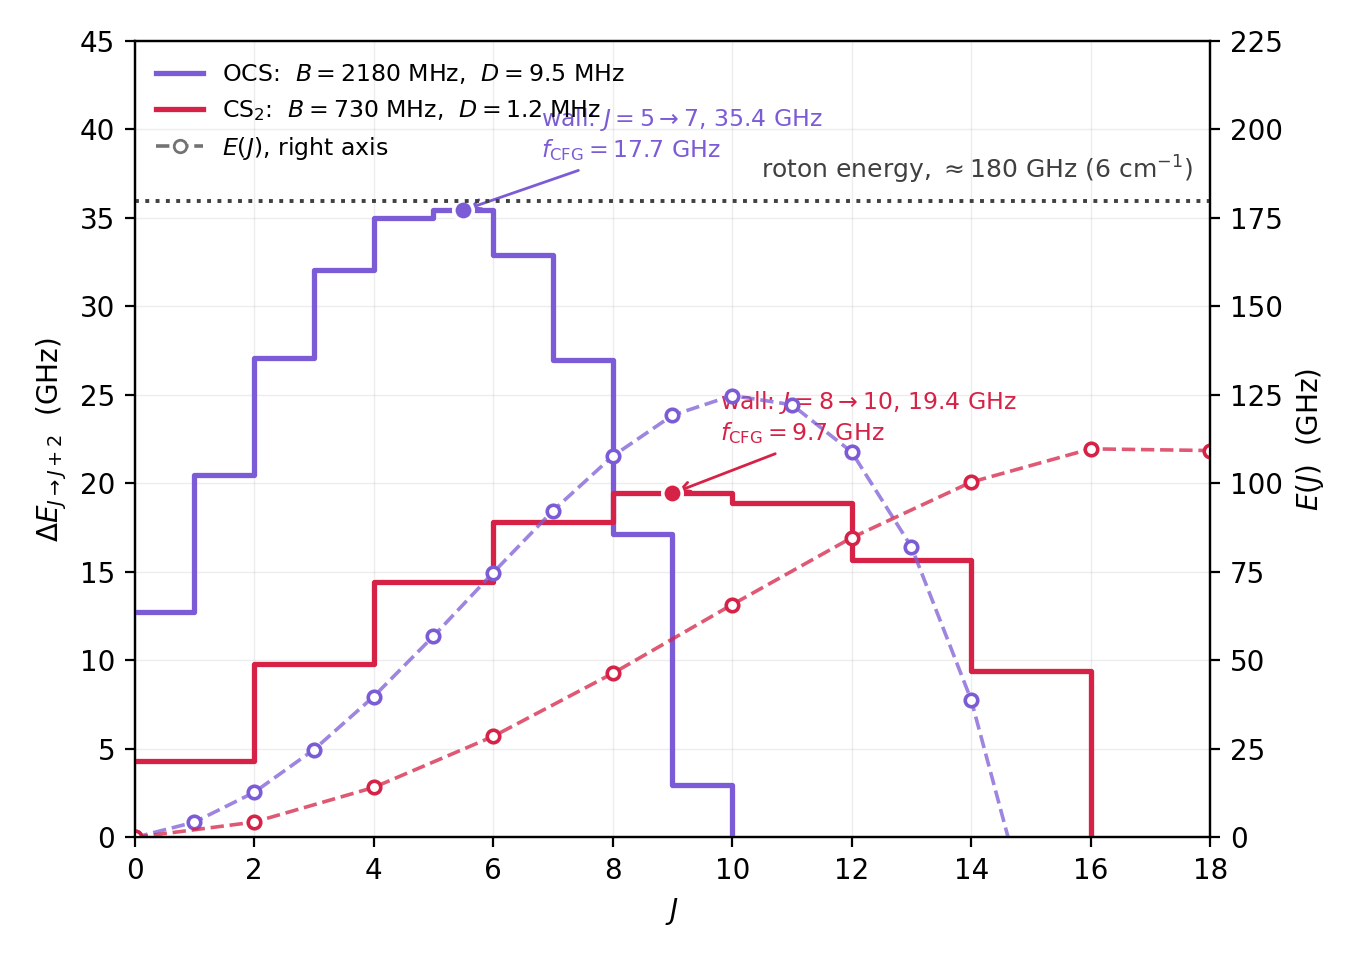
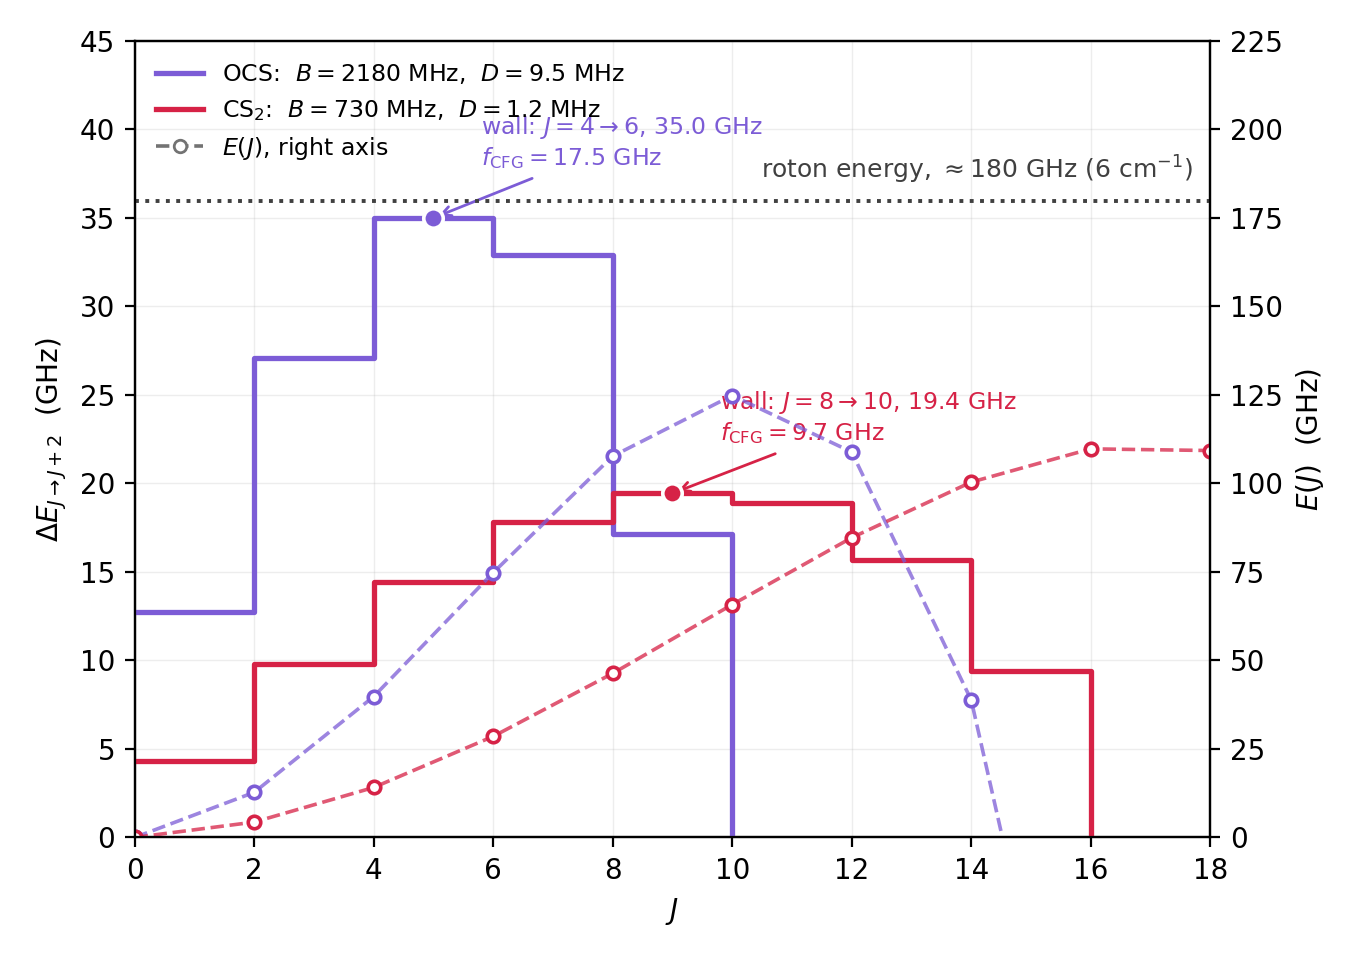
sd

diff --git a/act_thesis/chapters/02_theory.tex b/act_thesis/chapters/02_theory.tex
@@ -188,12 +188,12 @@ where $B$ is the rotational constant and $D$ is the centrifugal-distortion const
 
 A molecule embedded in a superfluid helium nanodroplet is not an isolated rotor. The attractive van der Waals interaction between the dopant and the surrounding helium creates a local density enhancement, a solvation shell, in the first few atomic layers around the molecule. For a sufficiently anisotropic potential energy surface, part of this shell is rigidly bound to the molecular frame and follows the molecular orientation adiabatically during rotation \cite{grebenevRotationalSpectrumSingle2000, choiInfraredSpectroscopyHelium2006a}. The rotating object is therefore the molecule plus a fraction of the helium it drags along, which increases the effective moment of inertia and correspondingly reduces the rotational constant.
 
-Rotational spectroscopy of different molecules in \fHe droplets, showed that the spectrum remains that of a free rotor, sharp resolvable lines with the same symmetry, but with rescaled $B$ constant. Typical reductions are a factor of $2 - 4$ relative to the gas phase value \cite{toenniesSuperfluidHeliumDroplets2004a}. ``Kicking'' the molecules and observing dynamics of higher rotational states confirmed the spectroscopy values including the rescaling of the centrifugal-distortion constant $D$. Instead of $D$ describing the bond stretching of a free rotating molecule, in this case it is connected to the attached helium shell spreading out and increasing the moment of inertia \cite{chatterleyRotationalCoherenceSpectroscopy2020}. The already in section \ref{sec:state-of-the-art} mentioned experiments by the Stapelfeldt group showed, that for example for \OCS $D_\mathrm{He} \approx 7.3 \times 10^3 \, D_\mathrm{gas}$. Plotting the transition frequency $\Delta E_{J \rightarrow J+2}$ as a function of $J$ reveals a striking consequence of the enhanced distortion constant: the frequency does not increase monotonically but reaches a maximum and then decreases (see \figref{fig:centrifugal_wall}), so that beyond this point a state of higher angular momentum is connected by a transition of lower frequency, even though the rotational energy itself still increases. In this thesis the turning point is referred to as the centrifugal wall. Further, with the kick experiments it was not possible to resolve what actually happens when approaching the centrifugal wall. Accordingly, the maximum energy for \gls{css} was $E(J=10) \approx 66 \, \mathrm{GHz}$ and for \OCS $E(J=5) \approx 57 \, \mathrm{GHz}$, both way below the roton energy.
+Rotational spectroscopy of different molecules in \fHe droplets, showed that the spectrum remains that of a free rotor, sharp resolvable lines with the same symmetry, but with rescaled $B$ constant. Typical reductions are a factor of $2 - 4$ relative to the gas phase value \cite{toenniesSuperfluidHeliumDroplets2004a}. ``Kicking'' the molecules and observing dynamics of higher rotational states confirmed the spectroscopy values including the rescaling of the centrifugal-distortion constant $D$. Instead of $D$ describing the bond stretching of a free rotating molecule, in this case it is connected to the attached helium shell spreading out and increasing the moment of inertia \cite{chatterleyRotationalCoherenceSpectroscopy2020}. The already in section \ref{sec:state-of-the-art} mentioned experiments by the Stapelfeldt group showed, that for example for \OCS $D_\mathrm{He} \approx 7.3 \times 10^3 \, D_\mathrm{gas}$. Plotting the transition frequency $\Delta E_{J \rightarrow J+2}$ as a function of $J$ reveals a striking consequence of the enhanced distortion constant: the transition frequency does not increase monotonically but reaches a maximum and then decreases (see \figref{fig:centrifugal_wall}), so that beyond this point a state of higher angular momentum is connected by a transition of lower frequency. This eventually results in an unphysical decrease of rotational frequency with higher $J$. In this thesis the turning point is referred to as the centrifugal wall. Further, with the kick experiments it was not possible to resolve what actually happens when approaching the centrifugal wall. Accordingly, the maximum energy for \gls{css} was $E(J=10) \approx 66 \, \mathrm{GHz}$ and for \OCS $E(J=5) \approx 57 \, \mathrm{GHz}$, both way below the roton energy.
 
 \begin{figure}[htbp]
     \centering
     \includegraphics[width=0.8\textwidth]{02_theory/Pasted image 20260720163800.png}
-    \caption{Breakdown of the rigid rotor with centrifugal distortion model in superfluid helium. }
+    \caption{Breakdown of the rigid rotor with centrifugal distortion model in superfluid helium. \OCS and \CSS transition energies displaying the "centrifugal wall", where with the next $J \rightarrow J +2$ step the transition needs less energy. The molecules rotational energy is plotted on the right-hand side, consequently also showing unphysical behavior for higher rotational states. Note that for both molecules only the even ladder is displayed - due to symmetry, \OCS can also develop the uneven ladder with $\Delta J = 2$ \cite{ianThesis}. The wall for \CSS appears to be $J = 8 \rightarrow 10$ ($19.4\, \mathrm{GHz}$), for \OCS $J = 5 \rightarrow 7$ ($35.4\, \mathrm{GHz}$)} 
     \label{fig:centrifugal_wall}
 \end{figure}
 

diff --git a/python/centrifugal_wall.py b/python/centrifugal_wall.py
@@ -18,12 +18,14 @@ import matplotlib.pyplot as plt
 
 E_ROTON = 179.9          # GHz  (6 cm^-1)
 JMAX_PLOT = 18
+STEP = 2                 # Raman selection rule: J -> J+2; only the even-J ladder is shown
 
-# even_only: CS2 (S=C=S, centrosymmetric, I=0 for 32S) populates only even J.
-# OCS is not centrosymmetric, so all J are allowed.
+# CS2 (S=C=S, centrosymmetric, I=0 for 32S) only populates even J.
+# OCS is not centrosymmetric and populates all J, but only the even-J ladder
+# (0 -> 2 -> 4 -> ...) is shown here.
 MOLECULES = {
-    "OCS":    dict(B=2.180, D=0.0095, color="#7c5cd6", Jkick=5,  even_only=False),
-    "CS$_2$": dict(B=0.730, D=0.0012, color="#d62246", Jkick=10, even_only=True),
+    "OCS":    dict(B=2.180, D=0.0095, color="#7c5cd6", Jkick=5),
+    "CS$_2$": dict(B=0.730, D=0.0012, color="#d62246", Jkick=10),
 }
 
 
@@ -42,23 +44,22 @@ fig, axL = plt.subplots(figsize=(6.8, 4.8))
 axR = axL.twinx()
 
 for name, p in MOLECULES.items():
-    step = 2 if p["even_only"] else 1
-    J = np.arange(0, JMAX_PLOT + 1, step)
+    J = np.arange(0, JMAX_PLOT + 1, STEP)
     f = dE(J, p["B"], p["D"])
     e = E(J, p["B"], p["D"])
 
-    # ---- left axis: step plot, plateau from J to J+1 --------------------
-    ax_J = np.append(J, J[-1] + step)
+    # ---- left axis: step plot, plateau from J to J+2 --------------------
+    ax_J = np.append(J, J[-1] + STEP)
     ax_f = np.append(f, f[-1])
     axL.step(ax_J, ax_f, where="post", color=p["color"], lw=1.9, zorder=3)
 
     # centrifugal wall = maximum of the transition frequency
     iw = int(np.argmax(f))
-    axL.plot(J[iw] + step/2, f[iw], "o", color=p["color"], ms=7,
+    axL.plot(J[iw] + STEP/2, f[iw], "o", color=p["color"], ms=7,
              mec="white", mew=1.3, zorder=5)
     axL.annotate(rf"wall: $J={J[iw]}\rightarrow{J[iw]+2}$, {f[iw]:.1f} GHz"
                  "\n" rf"$f_\mathrm{{CFG}}={f[iw]/2:.1f}$ GHz",
-                 xy=(J[iw] + step/2, f[iw]), xytext=(J[iw] + 1.8, f[iw] + 3),
+                 xy=(J[iw] + STEP/2, f[iw]), xytext=(J[iw] + 1.8, f[iw] + 3),
                  color=p["color"], fontsize=8.5,
                  arrowprops=dict(arrowstyle="->", color=p["color"], lw=1))
 
@@ -96,7 +97,7 @@ fig.savefig("python/cfg_wall_roton.png", dpi=200)
 
 # ---- console summary --------------------------------------------------------
 for name, p in MOLECULES.items():
-    J = np.arange(0, 40, 2 if p["even_only"] else 1)
+    J = np.arange(0, 40, STEP)
     f, e = dE(J, p["B"], p["D"]), E(J, p["B"], p["D"])
     iw, ie = int(np.argmax(f)), int(np.argmax(e))
     print(f"{name.replace('$_2$','2')}:")
